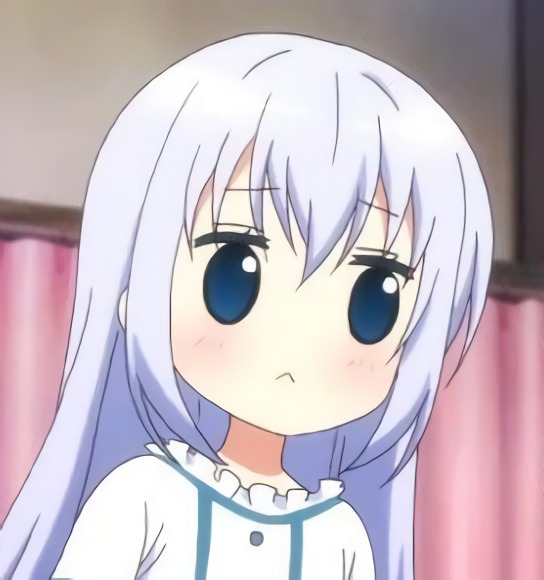
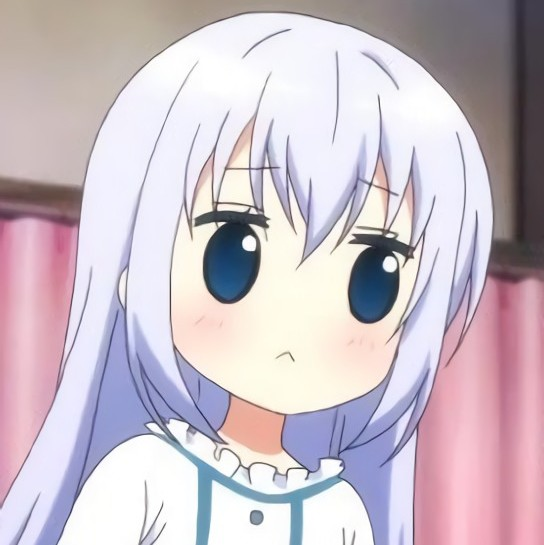
update thumbnail

diff --git a/chino.py b/chino.py
@@ -11,10 +11,11 @@ import os
 path = os.path.dirname(os.path.realpath(__file__))
 cache_dir = 'data/'
 font = '/wqy-microhei.ttc'
+thumb_size = (128, 128)
 
 images = [
     ('/chino.jpg', (255, 255, 255), 561, 450, 48),
-    ('/chino2.jpg', (0, 0, 0), 544, 580, 48)
+    ('/chino2.jpg', (0, 0, 0), 544, 545, 48)
 ]
 
 
@@ -27,28 +28,31 @@ def say(msg):
 
 def gen(image, msg):
     src, color, i_width, i_height, size = image
-    img = Image.open(path + src).convert("RGB")
 
-    draw = ImageDraw.Draw(img)
-    fnt = ImageFont.truetype(path + font, size=size)
-    w, h = draw.textsize(msg, font=fnt)
-    lines = textwrap.wrap(msg, width=10)
-    y_text = i_height - h - 10
-    for line in reversed(lines):
-        width, height = draw.textsize(line, font=fnt)
-        draw.text(((i_width - width) / 2, y_text), line, color, font=fnt)
-        y_text -= height
-
-    # img.show()
     import hashlib
-    import time
 
     sha1 = hashlib.sha1()
-    sha1.update(str(time.time()).encode('utf-8'))
+    sha1.update((msg+src+color+i_width+i_height+size).encode('utf-8'))
     name = cache_dir + sha1.hexdigest() + '.jpg'
+    thumb = cache_dir + sha1.hexdigest() + '_thumb.jpg'
 
     if not os.path.exists(path + '/' + cache_dir):
         os.makedirs(path + '/' + cache_dir)
 
-    img.save(path + '/' + name)
-    return name, i_width, i_height
+    if not os.path.exists(path + '/' + name):
+        img = Image.open(path + src).convert("RGB")
+        draw = ImageDraw.Draw(img)
+        fnt = ImageFont.truetype(path + font, size=size)
+        w, h = draw.textsize(msg, font=fnt)
+        lines = textwrap.wrap(msg, width=10)
+        y_text = i_height - h - 10
+        for line in reversed(lines):
+            width, height = draw.textsize(line, font=fnt)
+            draw.text(((i_width - width) / 2, y_text), line, color, font=fnt)
+            y_text -= height
+        # img.show()
+        img.save(path + '/' + name)
+        img.thumbnail(thumb_size)
+        img.save(path + thumb)
+
+    return thumb, name, i_width, i_height

diff --git a/bot.py b/bot.py
@@ -41,13 +41,13 @@ def inline_caps(bot, update):
     results = list()
     images = chino.say(query)
     for image in images:
-        name, w, h = image
+        thumb, name, w, h = image
         results.append(
             InlineQueryResultPhoto(
                 id=query.upper(),
                 title='智乃 说',
                 photo_url=base_url + name,
-                thumb_url=base_url + name,
+                thumb_url=base_url + thumb,
                 photo_width=w,
                 photo_height=h,
                 description=query
